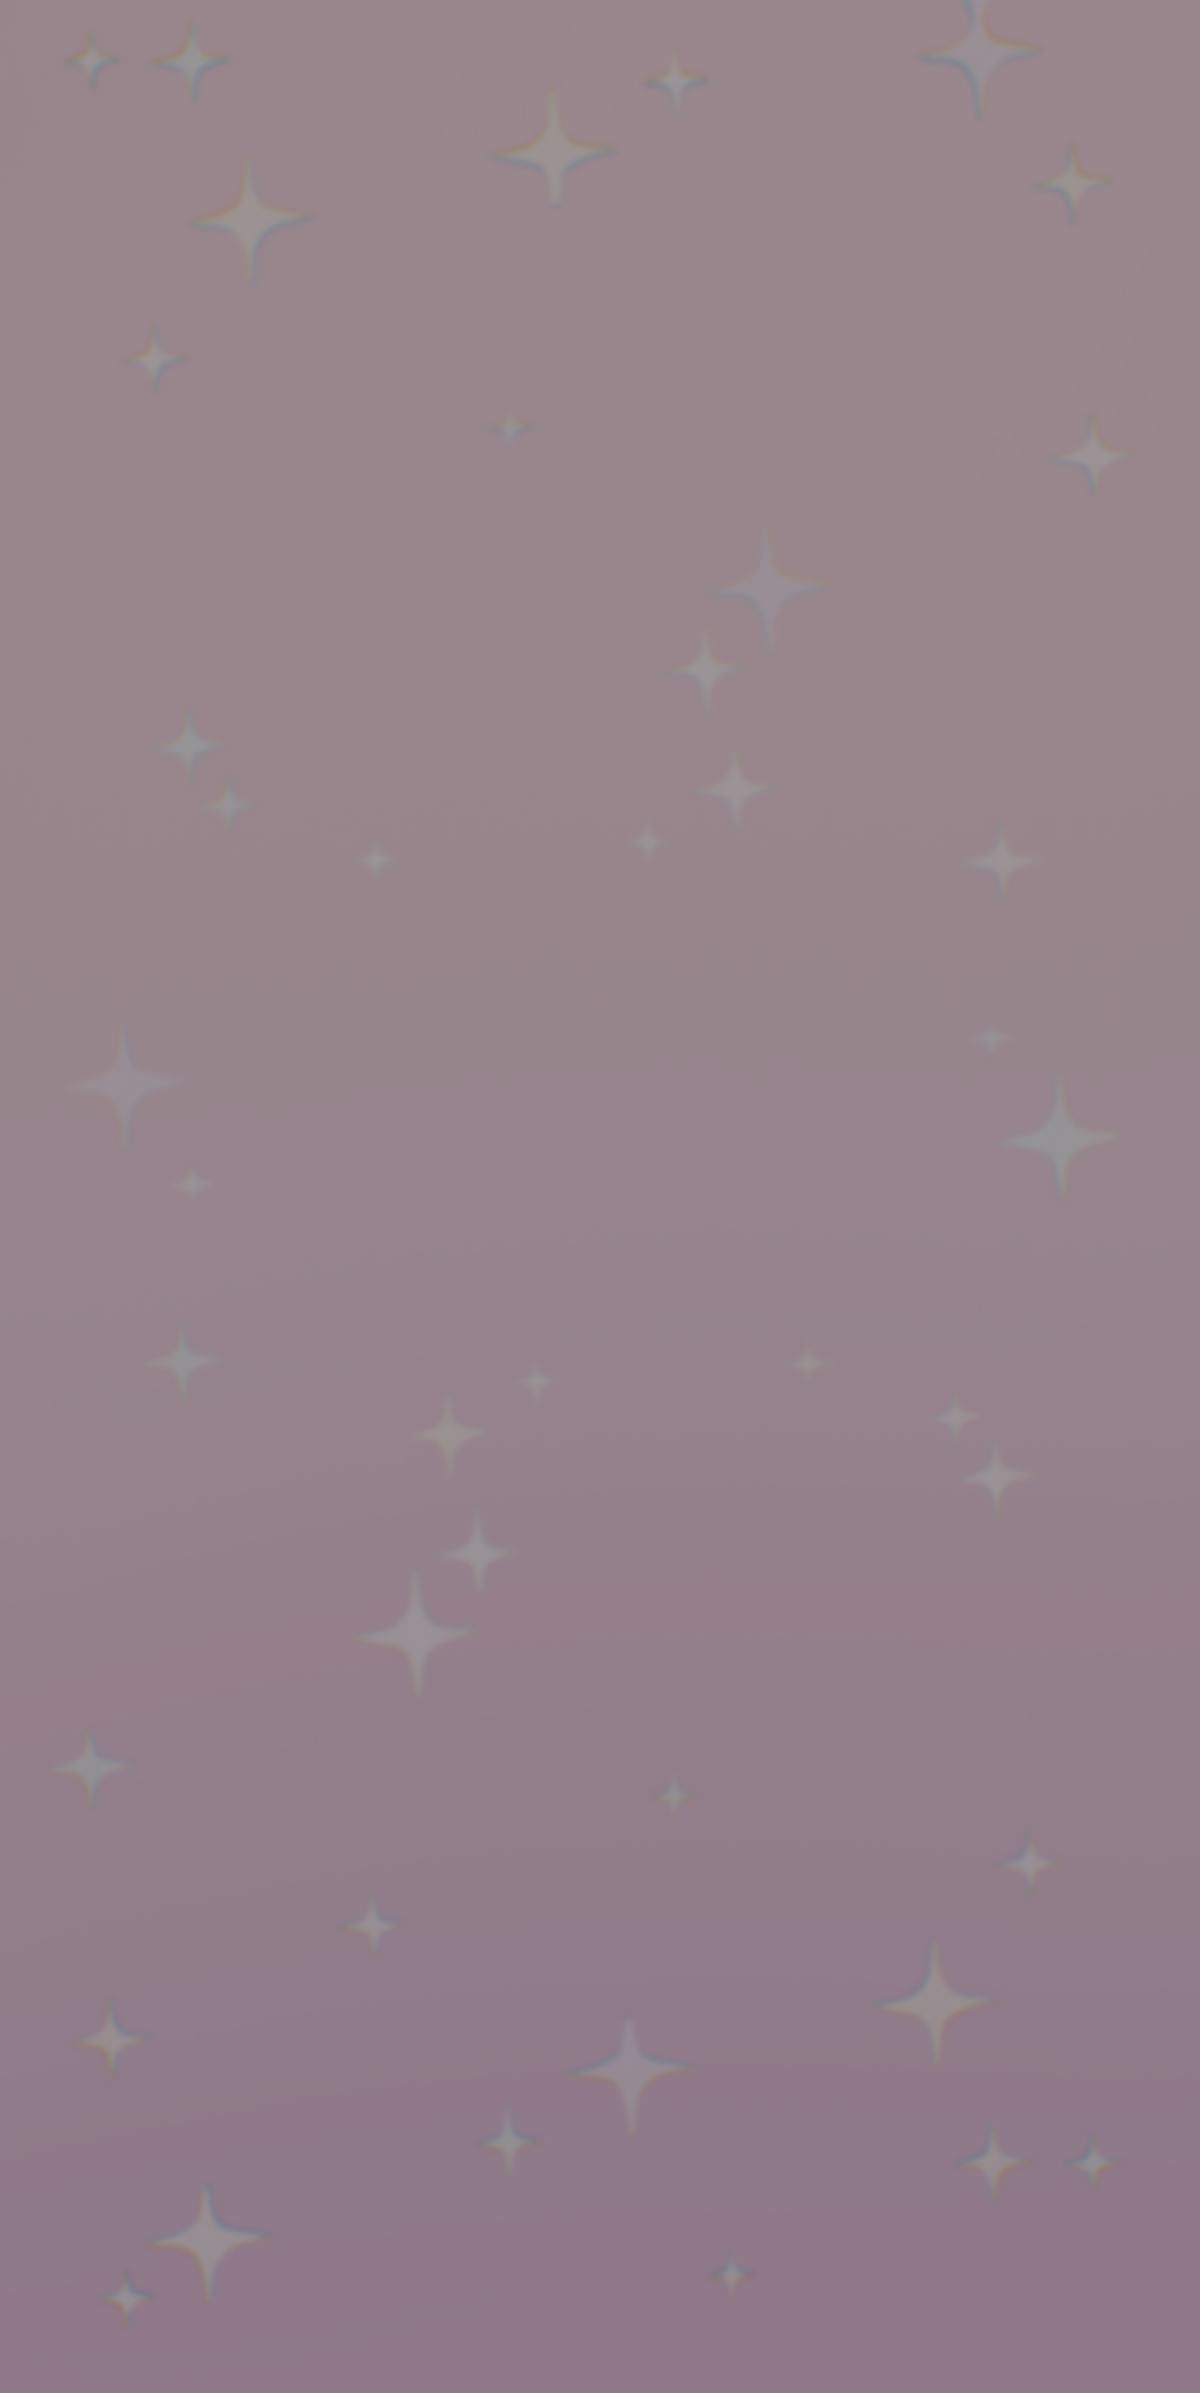
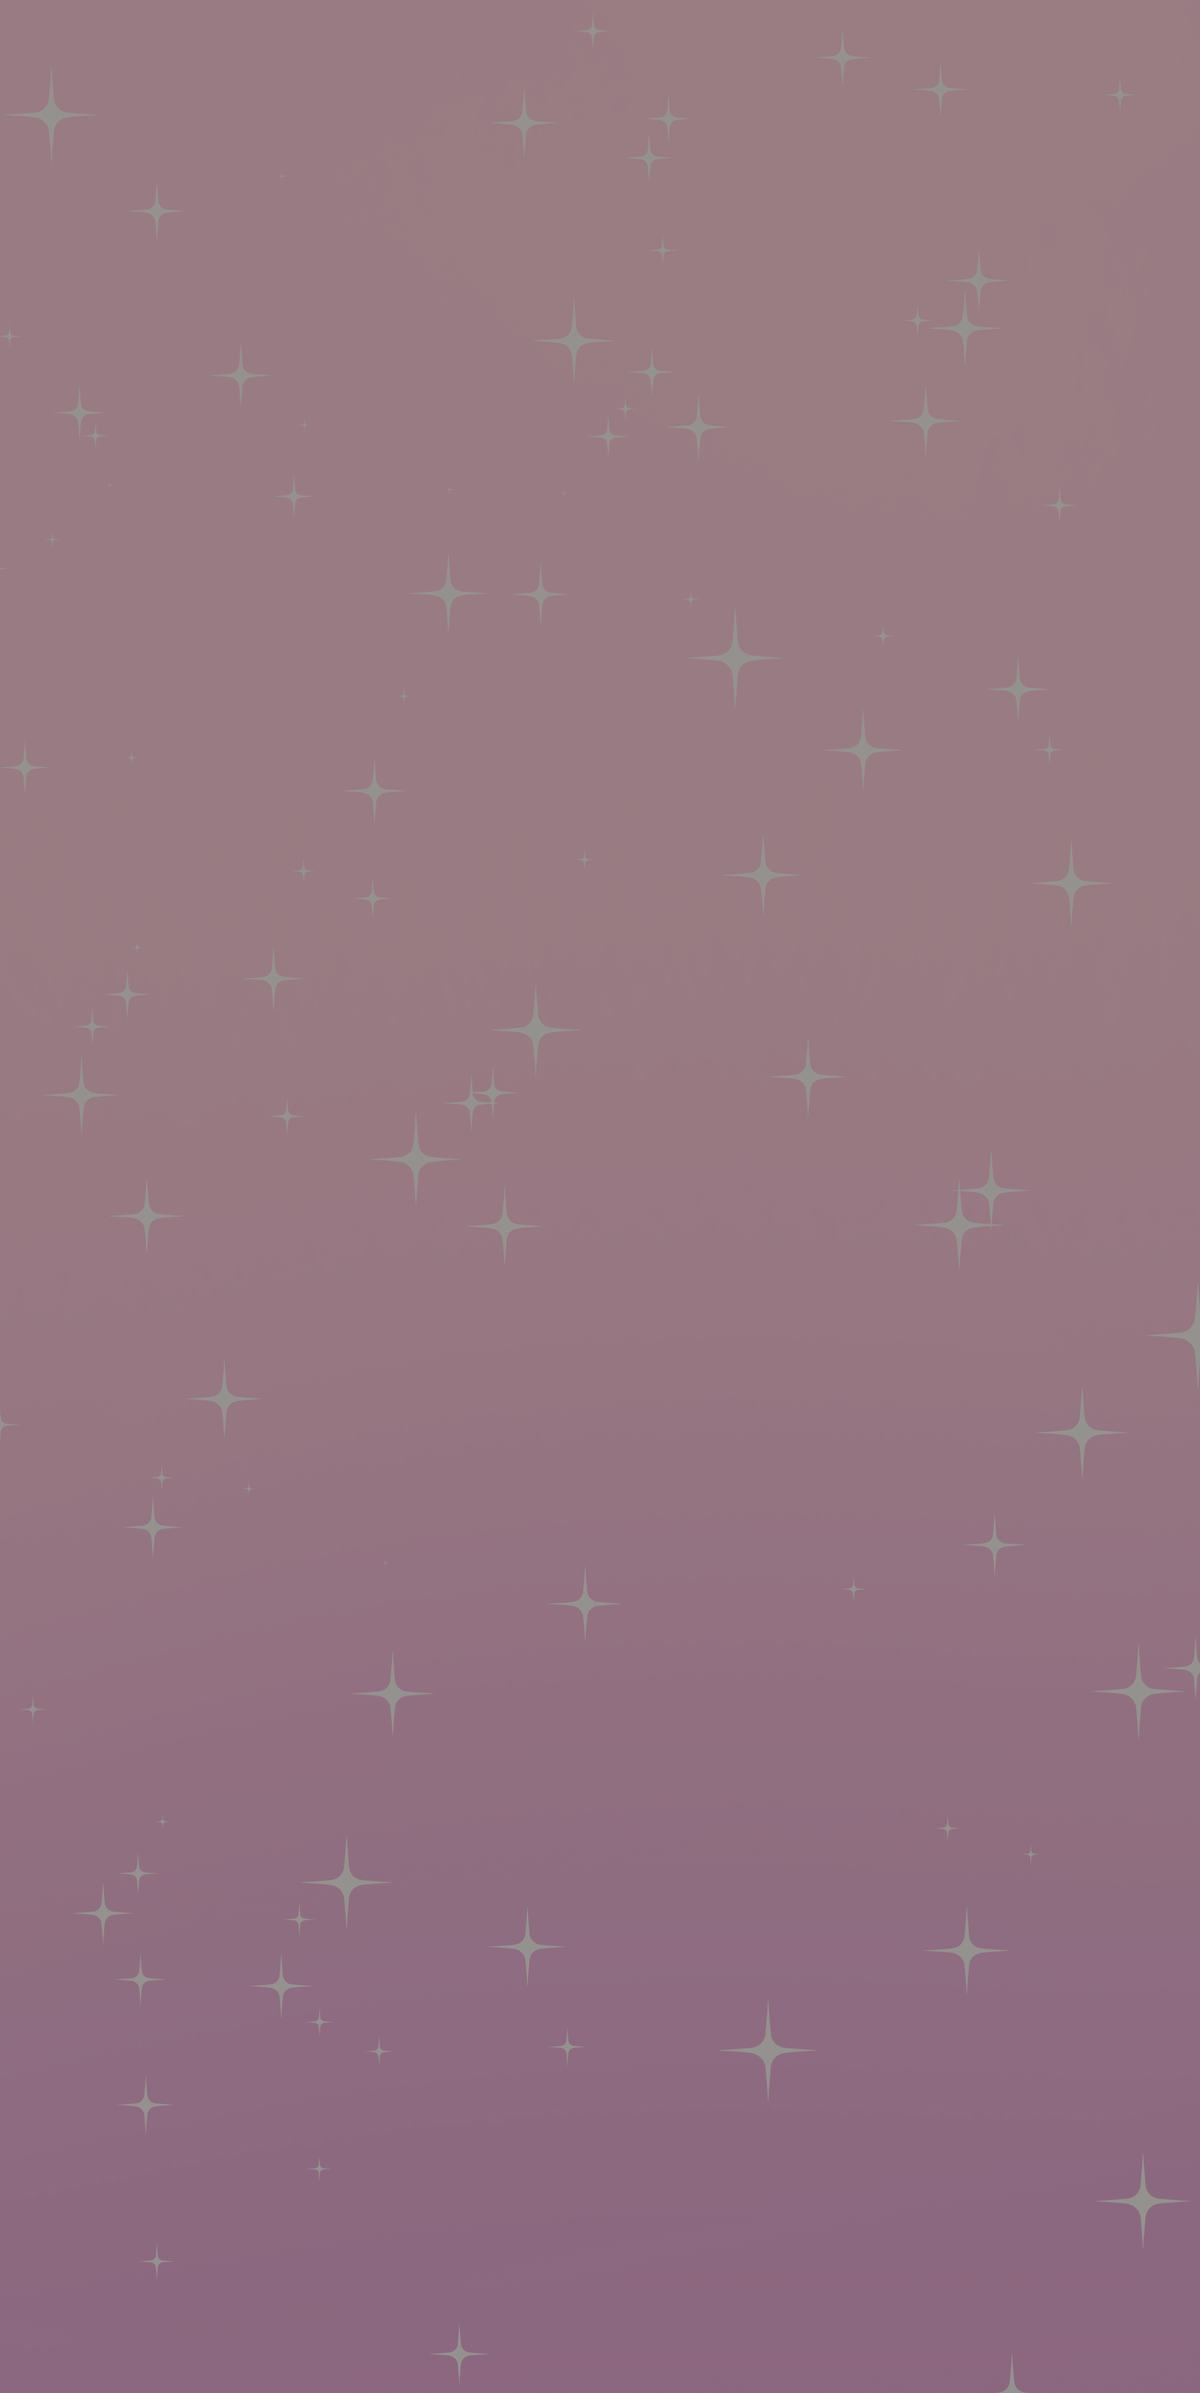
Mascots inline right of donate/merch buttons, smaller merch mascot, bg IMG_002

diff --git a/styles.css b/styles.css
@@ -173,19 +173,20 @@ h2.display {
   transform: rotate(4deg);
   animation: mascot-bob 4.5s ease-in-out infinite;
 }
-.mascot-goal {
-  width: clamp(120px, 16vw, 190px);
-  right: 8px;
-  bottom: 6px;
+/* маскоты donate/merch — инлайн в ряд справа от кнопок, в полный рост */
+.donate-btns .mascot-goal,
+.merch-cta .mascot-merch {
+  position: static;
+  z-index: auto;
+  flex: 0 0 auto;
   transform: rotate(-3deg);
-  animation: mascot-bob 5.2s ease-in-out infinite 0.4s;
 }
-.mascot-merch {
-  width: clamp(130px, 18vw, 210px);
-  left: 66%;
-  bottom: -30px;
-  animation: mascot-bob 4.8s ease-in-out infinite 0.8s;
-}
+.donate-btns .mascot-goal { height: clamp(104px, 13vw, 148px); animation: mascot-bob 5.2s ease-in-out infinite 0.4s; }
+.merch-cta .mascot-merch  { height: clamp(90px, 12vw, 128px); animation: mascot-bob 4.8s ease-in-out infinite 0.8s; }
+.donate-btns .mascot-goal img,
+.merch-cta .mascot-merch img { width: auto; height: 100%; }
+
+.merch-cta { display: flex; align-items: center; gap: var(--s4); flex-wrap: wrap; }
 
 /* каскадное появление текста hero */
 .hero-copy > * { animation: rise 0.7s cubic-bezier(0.22, 1, 0.36, 1) both; }
@@ -401,9 +402,6 @@ h1.display {
 
 .goal-updated { font-size: 0.75rem; opacity: 0.75; margin: var(--s3) 0 0; }
 
-/* место снизу-справа под маскота donate-блока */
-.goal { padding-bottom: var(--s7); }
-
 /* ===== MERCH: баннер-арт фоном ===== */
 .merch {
   background: var(--paper) url("assets/merch-bg.jpg") center / cover no-repeat;
@@ -420,7 +418,6 @@ h1.display {
 }
 .merch > * { position: relative; z-index: 2; }
 .merch .mascot { z-index: 1; }
-.merch { padding-bottom: var(--s7); }
 .merch-text { max-width: 48ch; margin: 0 0 var(--s4); }
 
 /* ===== FOOTER ===== */

diff --git a/index.html b/index.html
@@ -96,23 +96,25 @@
         <svg viewBox="0 0 24 24" aria-hidden="true"><path d="M5.5 3h13l-.6 3.5H6.1L5.5 3zm.9 5.5h11.2l-1.4 11.7A2 2 0 0 1 14.2 22H9.8a2 2 0 0 1-2-1.8L6.4 8.5zm2.2 2 1 8.5c0 .2.2.3.4.3h4c.2 0 .4-.1.4-.3l1-8.5H8.6z"/></svg>
         <span>Buy Me a Coffee</span>
       </a>
+      <picture class="mascot mascot-goal" aria-hidden="true">
+        <source type="image/webp" srcset="assets/mascot-goal.webp">
+        <img src="assets/mascot-goal.png" alt="" loading="lazy" decoding="async">
+      </picture>
     </div>
     <p class="goal-updated mono" id="goal-updated"></p>
-    <picture class="mascot mascot-goal" aria-hidden="true">
-      <source type="image/webp" srcset="assets/mascot-goal.webp">
-      <img src="assets/mascot-goal.png" alt="" loading="lazy" decoding="async">
-    </picture>
   </section>
 
   <!-- ===== MERCH ===== -->
   <section class="panel merch reveal" id="merch" aria-labelledby="merch-title">
     <h2 class="display reveal" id="merch-title">✦ MERCH</h2>
     <p class="merch-text reveal">Museum-quality prints of the artworks — printed and shipped by INPRNT.</p>
-    <a class="sticker-btn cta-merch reveal" data-link="merch" href="#" data-utm-campaign="merch" rel="noopener noreferrer" target="_blank">Get a print →</a>
-    <picture class="mascot mascot-merch" aria-hidden="true">
-      <source type="image/webp" srcset="assets/mascot-merch.webp">
-      <img src="assets/mascot-merch.png" alt="" loading="lazy" decoding="async">
-    </picture>
+    <div class="merch-cta reveal">
+      <a class="sticker-btn cta-merch" data-link="merch" href="#" data-utm-campaign="merch" rel="noopener noreferrer" target="_blank">Get a print →</a>
+      <picture class="mascot mascot-merch" aria-hidden="true">
+        <source type="image/webp" srcset="assets/mascot-merch.webp">
+        <img src="assets/mascot-merch.png" alt="" loading="lazy" decoding="async">
+      </picture>
+    </div>
   </section>
 
   <!-- ===== FOOTER ===== -->